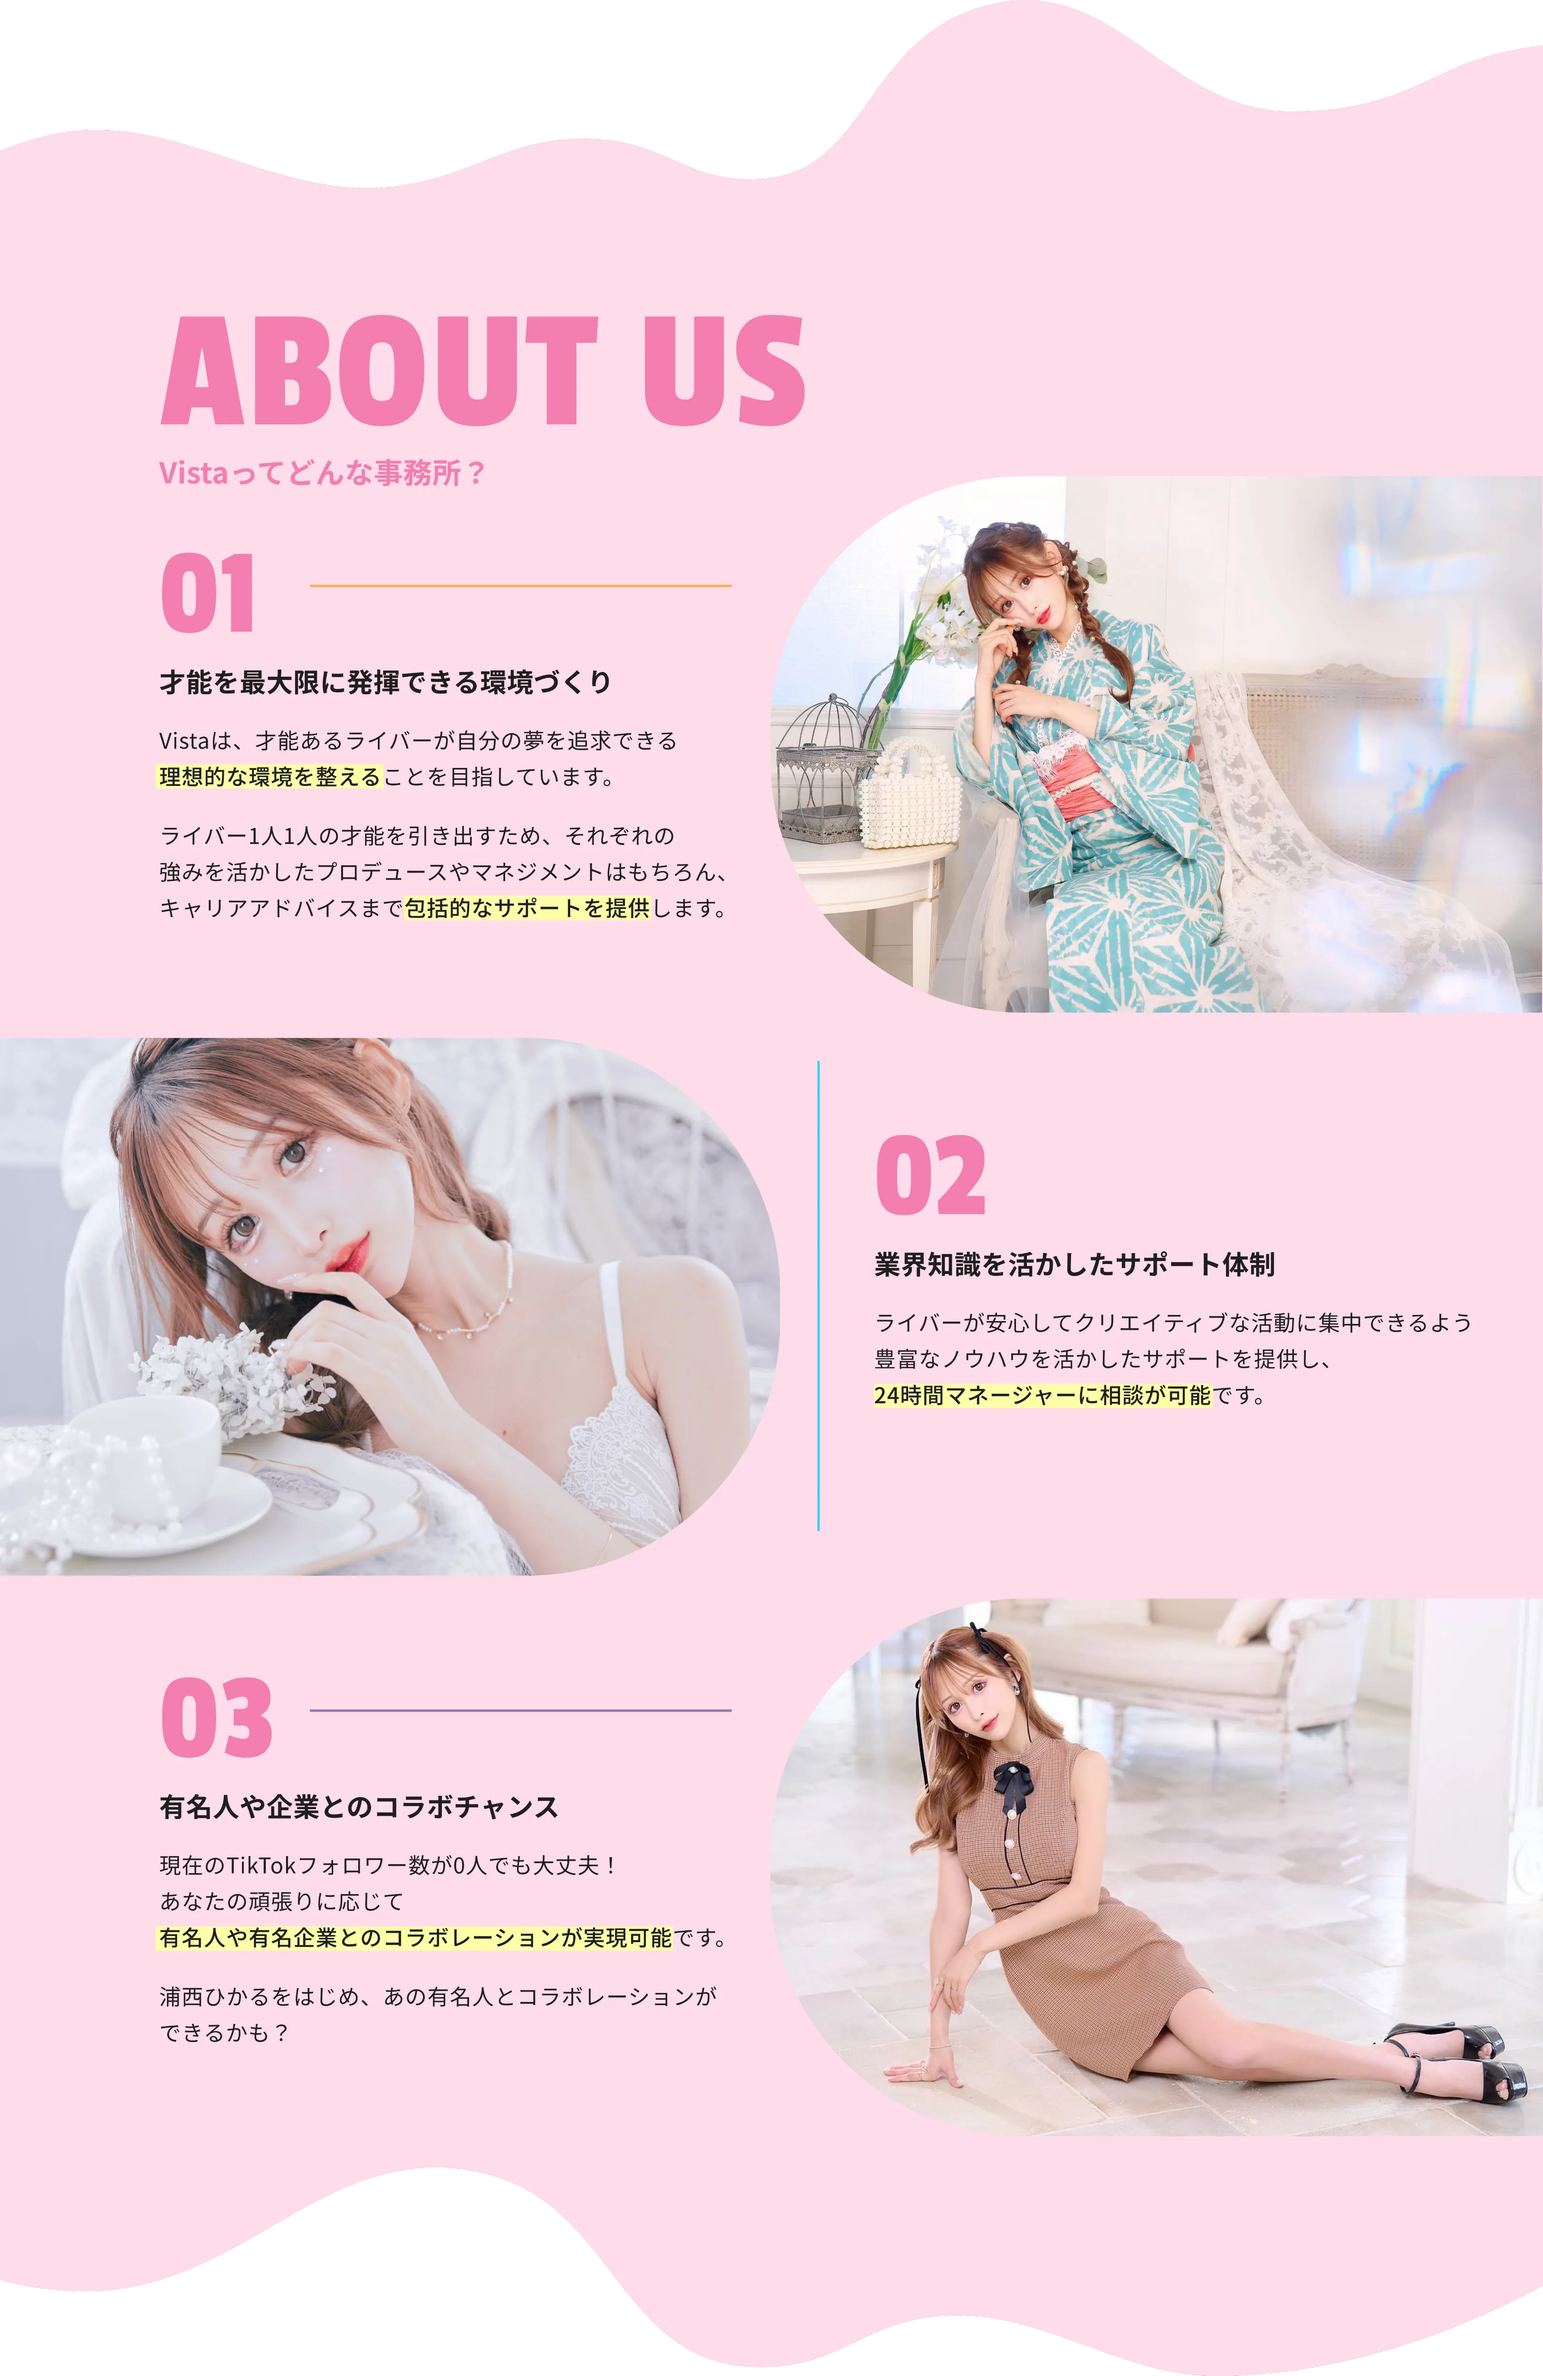
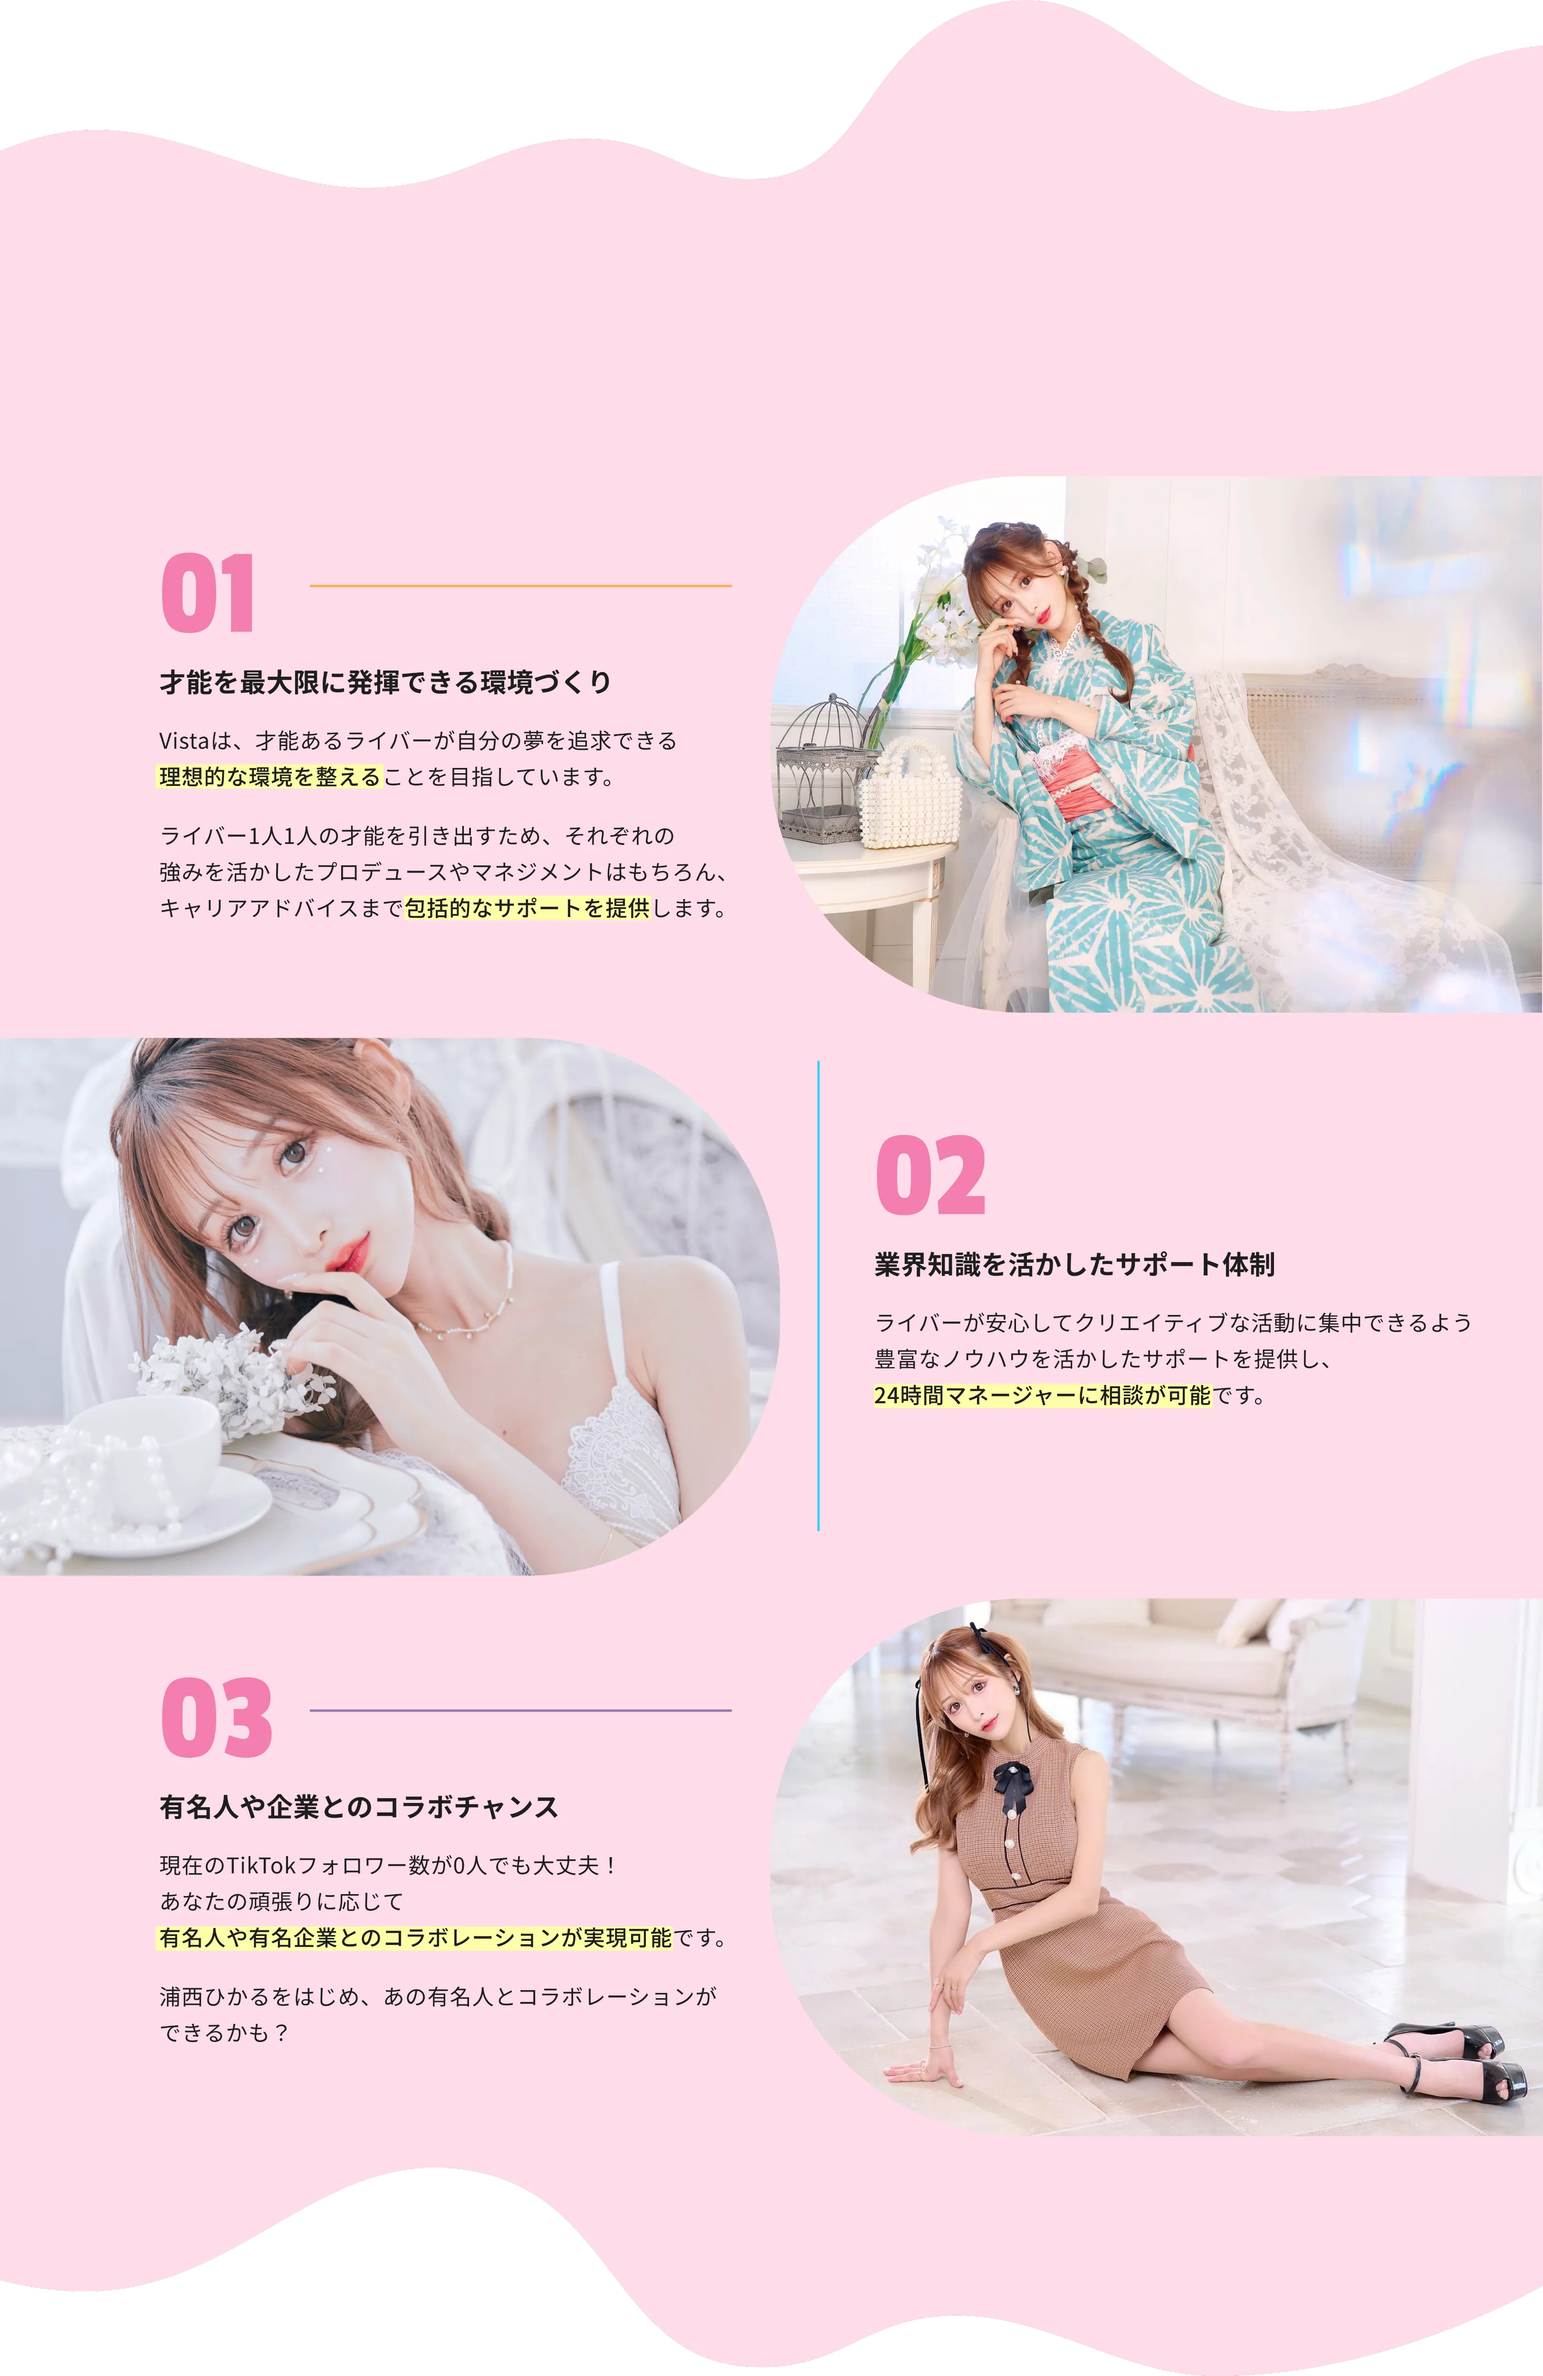
fix: about areaの画像を変換＆about areaのfont 反映

Changed region(s): [[0.0933, 0.1248, 0.5288, 0.2184]]

diff --git a/vista-front/src/components/Content/main.tsx b/vista-front/src/components/Content/main.tsx
@@ -61,14 +61,20 @@ export const Components: React.FC = () => {
           <ImageComponents.Introduction2.pc />
         </div>
         <div className={styles.aboutUsWrapper}>
-          {/* <div className={styles.aboutUsSubtitleWrapper}>
-          <SubtitleComponents.PinkFillSubTitle fontSize="144px">
-            ABOUT US
-          </SubtitleComponents.PinkFillSubTitle>
-          <TextComponents.PinkNormalText marginTop="-12px">
-            Vistaってどんな事務所？
-          </TextComponents.PinkNormalText>
-        </div> */}
+          <div className={styles.aboutUsSubtitleWrapper}>
+            <SubtitleComponents.PinkFillSubTitle
+              fontSize="144px"
+              fontClassName={GoogleFont.passWithAnotherClass}
+            >
+              ABOUT US
+            </SubtitleComponents.PinkFillSubTitle>
+            <TextComponents.PinkNormalText
+              marginTop="-12px"
+              fontClassName={GoogleFont.notoWithAnotherClass}
+            >
+              Vistaってどんな事務所？
+            </TextComponents.PinkNormalText>
+          </div>
           <ImageComponents.AboutUs.pc />
         </div>
         <div className={styles.flowWrapper}>
